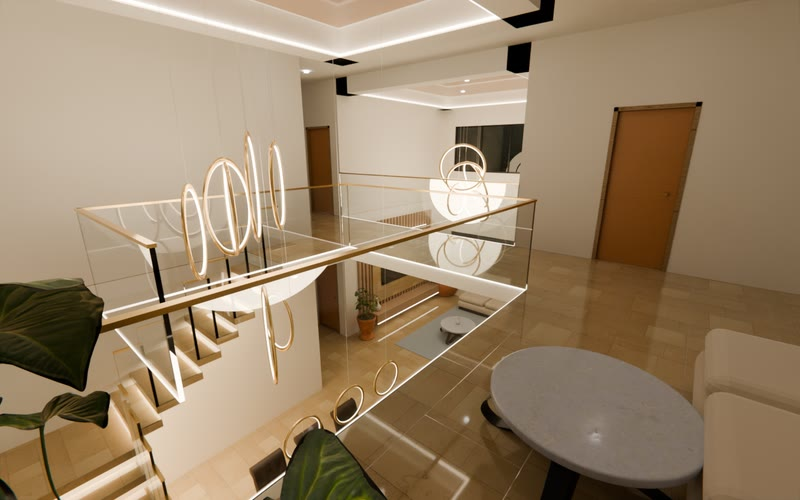
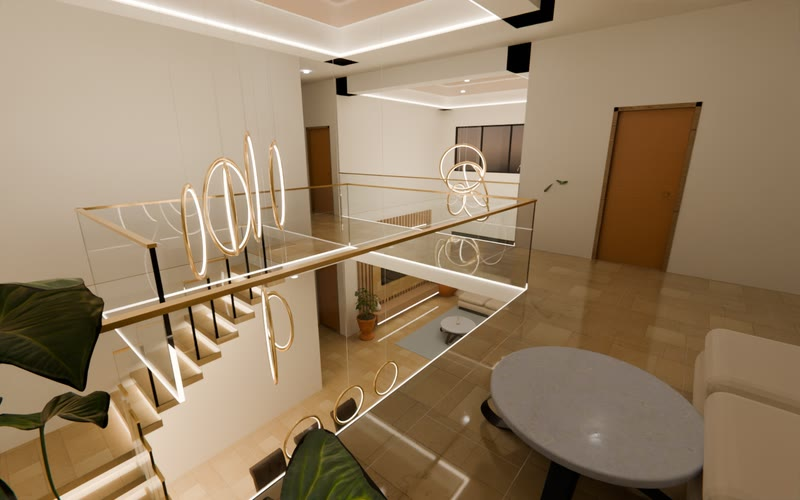
Add 26 new realistic views and camera maps
Rear, rear aerial, drawing room the other way and two back bedrooms for
all three designs; for each design the lounge to the front, the view from
the back rooms, back at the main door, the kitchen from the other side,
the first floor the other way, bedroom 3 and the terrace, plus a camera
map. The first-floor views are re-rendered without the white light
reflections in the glass.

diff --git a/index.html b/index.html
@@ -22,6 +22,7 @@
   h3{font-size:17px;margin:26px 0 10px}
   .shots{display:grid;grid-template-columns:1fr 1fr;gap:14px}
   .shared{display:grid;grid-template-columns:1fr 1fr;gap:14px}.shared .col{display:grid;gap:14px;align-content:start}
+  .shots .wide{grid-column:1/-1}.shared+.shots{margin-top:14px}
   @media (max-width:640px){.shots,.shared{grid-template-columns:1fr}}
   figure.shot{margin:0;background:var(--card);border:1px solid var(--line);border-radius:10px;overflow:hidden}
   figure.shot a{display:block}figure.shot img{width:100%;height:auto;display:block;border-bottom:1px solid var(--line)}
@@ -44,7 +45,7 @@
   </div>
 
   <h2 id="renders">Realistic renders</h2>
-  <p class="lead" style="margin-bottom:6px">Photo-realistic views of each design at dusk, rendered from the measured plans. All three designs have an open kitchen with an island and a set-back entrance. Finishes follow the owner's material list; furniture and decor are indicative. Click any image for the full size.</p>
+  <p class="lead" style="margin-bottom:6px">Photo-realistic views of each design at dusk, rendered from the measured plans. All three designs have an open kitchen with an island and a set-back entrance. Finishes follow the owner's material list; furniture and decor are indicative. Each design ends with a camera map showing where every picture was taken. Click any image for the full size.</p>
 
   <h3>Same for all three designs</h3>
   <div class="shared">
@@ -54,6 +55,13 @@
       <figure class="shot"><a href="renders/aerial-dusk.jpg"><img src="renders/thumbs/aerial-dusk.jpg" width="800" height="500" loading="lazy" alt="Aerial view of the house at dusk"></a><figcaption><b>Aerial at dusk.</b> Neighbouring houses are shown as plain blocks.</figcaption></figure>
     </div>
   </div>
+  <div class="shots">
+    <figure class="shot wide"><a href="renders/rear-dusk.jpg"><img src="renders/thumbs/rear-dusk.jpg" width="800" height="500" loading="lazy" alt="Back of the house at dusk"></a><figcaption><b>Rear at dusk.</b> The back and right side of the house, seen from the back lane.</figcaption></figure>
+    <figure class="shot"><a href="renders/rear-aerial-dusk.jpg"><img src="renders/thumbs/rear-aerial-dusk.jpg" width="800" height="500" loading="lazy" alt="Aerial view from behind the house"></a><figcaption><b>Rear aerial.</b> From above the back-left corner.</figcaption></figure>
+    <figure class="shot"><a href="renders/drawing-room-front-windows.jpg"><img src="renders/thumbs/drawing-room-front-windows.jpg" width="800" height="500" loading="lazy" alt="Drawing room looking towards the front windows"></a><figcaption><b>Drawing room, other way.</b> Looking towards the front windows and curtains.</figcaption></figure>
+    <figure class="shot"><a href="renders/back-bedroom-ground-floor.jpg"><img src="renders/thumbs/back-bedroom-ground-floor.jpg" width="800" height="500" loading="lazy" alt="Back bedroom on the ground floor"></a><figcaption><b>Back bedroom, ground floor.</b> Rear left; furnished to show scale.</figcaption></figure>
+    <figure class="shot"><a href="renders/back-bedroom-first-floor.jpg"><img src="renders/thumbs/back-bedroom-first-floor.jpg" width="800" height="500" loading="lazy" alt="Back bedroom on the first floor"></a><figcaption><b>Back bedroom, first floor.</b> Rear right, seen from beside the bed.</figcaption></figure>
+  </div>
 
   <h3><span class="tag">A</span>Architect's original</h3>
   <div class="shots">
@@ -61,6 +69,14 @@
     <figure class="shot"><a href="renders/a2-open-kitchen.jpg"><img src="renders/thumbs/a2-open-kitchen.jpg" width="800" height="500" loading="lazy" alt="Architect's original: open kitchen"></a><figcaption><b>Open kitchen.</b> Marble island, looking towards the lounge.</figcaption></figure>
     <figure class="shot"><a href="renders/a3-double-height.jpg"><img src="renders/thumbs/a3-double-height.jpg" width="800" height="500" loading="lazy" alt="Architect's original: double-height space"></a><figcaption><b>Double height.</b> The strip on the right side, with the stair.</figcaption></figure>
     <figure class="shot"><a href="renders/a4-first-floor.jpg"><img src="renders/thumbs/a4-first-floor.jpg" width="800" height="500" loading="lazy" alt="Architect's original: first floor"></a><figcaption><b>First floor.</b> Looking down into the double height.</figcaption></figure>
+    <figure class="shot"><a href="renders/a5-lounge-to-front.jpg"><img src="renders/thumbs/a5-lounge-to-front.jpg" width="800" height="500" loading="lazy" alt="Architect's original: lounge looking to the front"></a><figcaption><b>Lounge, looking to the front.</b> From the TV wall: sofa, stair, dining and kitchen.</figcaption></figure>
+    <figure class="shot"><a href="renders/a6-from-back-rooms.jpg"><img src="renders/thumbs/a6-from-back-rooms.jpg" width="800" height="500" loading="lazy" alt="Architect's original: from the back rooms along the lobby"></a><figcaption><b>From the back rooms.</b> Along the 6' lobby towards the dining and the entrance.</figcaption></figure>
+    <figure class="shot"><a href="renders/a7-main-door.jpg"><img src="renders/thumbs/a7-main-door.jpg" width="800" height="500" loading="lazy" alt="Architect's original: looking back at the main door"></a><figcaption><b>Looking back at the main door.</b> The double-height foyer and the set-back door.</figcaption></figure>
+    <figure class="shot"><a href="renders/a8-kitchen-other-side.jpg"><img src="renders/thumbs/a8-kitchen-other-side.jpg" width="800" height="500" loading="lazy" alt="Architect's original: open kitchen from the other side"></a><figcaption><b>Open kitchen, other side.</b> Island and stools seen from the dining area.</figcaption></figure>
+    <figure class="shot"><a href="renders/a9-first-floor-reverse.jpg"><img src="renders/thumbs/a9-first-floor-reverse.jpg" width="800" height="500" loading="lazy" alt="Architect's original: first floor, opposite direction"></a><figcaption><b>First floor, other way.</b> From the lobby along the double height to the front seating.</figcaption></figure>
+    <figure class="shot"><a href="renders/a10-bedroom-3.jpg"><img src="renders/thumbs/a10-bedroom-3.jpg" width="800" height="500" loading="lazy" alt="Architect's original: bedroom 3"></a><figcaption><b>Bedroom 3.</b> Furnished to show scale.</figcaption></figure>
+    <figure class="shot"><a href="renders/a11-terrace.jpg"><img src="renders/thumbs/a11-terrace.jpg" width="800" height="500" loading="lazy" alt="Architect's original: terrace"></a><figcaption><b>Terrace.</b> Open terrace, looking back at the glass sliders.</figcaption></figure>
+    <figure class="shot"><a href="renders/camera-map-a.png"><img src="renders/thumbs/camera-map-a.jpg" width="800" height="500" loading="lazy" alt="Architect's original: camera map"></a><figcaption><b>Camera map.</b> Where each picture was taken, on both floor plans.</figcaption></figure>
   </div>
 
   <h3><span class="tag">B</span>Plan 2: bridge in the middle</h3>
@@ -69,6 +85,14 @@
     <figure class="shot"><a href="renders/b2-open-kitchen.jpg"><img src="renders/thumbs/b2-open-kitchen.jpg" width="800" height="500" loading="lazy" alt="Plan 2: open kitchen"></a><figcaption><b>Open kitchen.</b> Marble island, looking towards the lounge.</figcaption></figure>
     <figure class="shot"><a href="renders/b3-double-height.jpg"><img src="renders/thumbs/b3-double-height.jpg" width="800" height="500" loading="lazy" alt="Plan 2: double-height space"></a><figcaption><b>Double height.</b> Full-width open space with the bridge across the middle.</figcaption></figure>
     <figure class="shot"><a href="renders/b4-first-floor-bridge.jpg"><img src="renders/thumbs/b4-first-floor-bridge.jpg" width="800" height="500" loading="lazy" alt="Plan 2: first-floor bridge"></a><figcaption><b>First floor.</b> The bridge and the floating stair.</figcaption></figure>
+    <figure class="shot"><a href="renders/b5-lounge-to-front.jpg"><img src="renders/thumbs/b5-lounge-to-front.jpg" width="800" height="500" loading="lazy" alt="Plan 2: lounge looking to the front"></a><figcaption><b>Lounge, looking to the front.</b> From the TV wall: sofa, open kitchen, dining and the bridge above.</figcaption></figure>
+    <figure class="shot"><a href="renders/b6-from-back-rooms.jpg"><img src="renders/thumbs/b6-from-back-rooms.jpg" width="800" height="500" loading="lazy" alt="Plan 2: from the back rooms along the lobby"></a><figcaption><b>From the back rooms.</b> Along the 6' lobby to the entrance hall and the front door.</figcaption></figure>
+    <figure class="shot"><a href="renders/b7-main-door.jpg"><img src="renders/thumbs/b7-main-door.jpg" width="800" height="500" loading="lazy" alt="Plan 2: looking back at the main door"></a><figcaption><b>Looking back at the main door.</b> The double-height foyer and the set-back door.</figcaption></figure>
+    <figure class="shot"><a href="renders/b8-kitchen-other-side.jpg"><img src="renders/thumbs/b8-kitchen-other-side.jpg" width="800" height="500" loading="lazy" alt="Plan 2: open kitchen from the other side"></a><figcaption><b>Open kitchen, other side.</b> Island and stools seen from the dining side.</figcaption></figure>
+    <figure class="shot"><a href="renders/b9-first-floor-reverse.jpg"><img src="renders/thumbs/b9-first-floor-reverse.jpg" width="800" height="500" loading="lazy" alt="Plan 2: first floor, opposite direction"></a><figcaption><b>First floor, other way.</b> From the bridge across the dining void to the front seating.</figcaption></figure>
+    <figure class="shot"><a href="renders/b10-bedroom-3.jpg"><img src="renders/thumbs/b10-bedroom-3.jpg" width="800" height="500" loading="lazy" alt="Plan 2: bedroom 3"></a><figcaption><b>Bedroom 3.</b> Furnished to show scale.</figcaption></figure>
+    <figure class="shot"><a href="renders/b11-terrace.jpg"><img src="renders/thumbs/b11-terrace.jpg" width="800" height="500" loading="lazy" alt="Plan 2: terrace"></a><figcaption><b>Terrace.</b> Open terrace, looking out from the gallery door.</figcaption></figure>
+    <figure class="shot"><a href="renders/camera-map-b.png"><img src="renders/thumbs/camera-map-b.jpg" width="800" height="500" loading="lazy" alt="Plan 2: camera map"></a><figcaption><b>Camera map.</b> Where each picture was taken, on both floor plans.</figcaption></figure>
   </div>
 
   <h3><span class="tag">C</span>Plan 5: bridge on the right wall</h3>
@@ -77,6 +101,14 @@
     <figure class="shot"><a href="renders/c2-open-kitchen.jpg"><img src="renders/thumbs/c2-open-kitchen.jpg" width="800" height="500" loading="lazy" alt="Plan 5: open kitchen"></a><figcaption><b>Open kitchen.</b> Marble island, looking towards the lounge (as in Plan 2).</figcaption></figure>
     <figure class="shot"><a href="renders/c3-double-height.jpg"><img src="renders/thumbs/c3-double-height.jpg" width="800" height="500" loading="lazy" alt="Plan 5: double-height space"></a><figcaption><b>Double height.</b> Nothing crosses the open space; the walkway runs along the right wall.</figcaption></figure>
     <figure class="shot"><a href="renders/c4-first-floor-right-bridge.jpg"><img src="renders/thumbs/c4-first-floor-right-bridge.jpg" width="800" height="500" loading="lazy" alt="Plan 5: first floor with the right-wall bridge"></a><figcaption><b>First floor.</b> The walkway along the right wall.</figcaption></figure>
+    <figure class="shot"><a href="renders/c5-lounge-to-front.jpg"><img src="renders/thumbs/c5-lounge-to-front.jpg" width="800" height="500" loading="lazy" alt="Plan 5: lounge looking to the front"></a><figcaption><b>Lounge, looking to the front.</b> From the TV wall: sofa, open kitchen, dining and the walkway above.</figcaption></figure>
+    <figure class="shot"><a href="renders/c6-from-back-rooms.jpg"><img src="renders/thumbs/c6-from-back-rooms.jpg" width="800" height="500" loading="lazy" alt="Plan 5: from the back rooms along the lobby"></a><figcaption><b>From the back rooms.</b> Along the 6' lobby, open to the double height above.</figcaption></figure>
+    <figure class="shot"><a href="renders/c7-main-door.jpg"><img src="renders/thumbs/c7-main-door.jpg" width="800" height="500" loading="lazy" alt="Plan 5: looking back at the main door"></a><figcaption><b>Looking back at the main door.</b> The double-height foyer and the set-back door.</figcaption></figure>
+    <figure class="shot"><a href="renders/c8-kitchen-other-side.jpg"><img src="renders/thumbs/c8-kitchen-other-side.jpg" width="800" height="500" loading="lazy" alt="Plan 5: open kitchen from the other side"></a><figcaption><b>Open kitchen, other side.</b> Island and stools seen from the dining side.</figcaption></figure>
+    <figure class="shot"><a href="renders/c9-first-floor-reverse.jpg"><img src="renders/thumbs/c9-first-floor-reverse.jpg" width="800" height="500" loading="lazy" alt="Plan 5: first floor, opposite direction"></a><figcaption><b>First floor, other way.</b> From the right-wall walkway across the double height to the stair.</figcaption></figure>
+    <figure class="shot"><a href="renders/c10-bedroom-3.jpg"><img src="renders/thumbs/c10-bedroom-3.jpg" width="800" height="500" loading="lazy" alt="Plan 5: bedroom 3"></a><figcaption><b>Bedroom 3.</b> Front left; furnished to show scale.</figcaption></figure>
+    <figure class="shot"><a href="renders/c11-terrace.jpg"><img src="renders/thumbs/c11-terrace.jpg" width="800" height="500" loading="lazy" alt="Plan 5: terrace"></a><figcaption><b>Terrace.</b> Open terrace, looking back at the wide glass slider.</figcaption></figure>
+    <figure class="shot"><a href="renders/camera-map-c.png"><img src="renders/thumbs/camera-map-c.jpg" width="800" height="500" loading="lazy" alt="Plan 5: camera map"></a><figcaption><b>Camera map.</b> Where each picture was taken, on both floor plans.</figcaption></figure>
   </div>
 
   <h2>Walkthrough videos</h2>

diff --git a/README.md b/README.md
@@ -13,7 +13,7 @@ A 5-bedroom, two-storey joint-family house. The architect's original layout is c
 ## Contents
 - `3d/viewer/`: interactive 3D viewer (three.js): three designs, 14 preset views, roof/floor toggles
 - `3d/comparison.html`: 14 views with all three designs side by side; `3d/images/` holds the 42 renders
-- `renders/`: 15 photo-realistic renders at dusk (front, drawing room and aerial shared by all three; entrance, open kitchen, double height and first floor for each design); `renders/thumbs/` holds the smaller previews used on the page
+- `renders/`: 41 photo-realistic renders at dusk. Eight are shared by all three designs (front, rear, both aerials, drawing room both ways, two back bedrooms). Each design has 11 views: entrance, open kitchen, double height, first floor, lounge to the front, from the back rooms, back at the main door, kitchen from the other side, first floor the other way, bedroom 3, terrace. There is also a camera map per design showing where each picture was taken. `renders/thumbs/` holds the smaller previews used on the page
 - `videos/`: 94-second walkthrough video of each design (MP4, 1280×720)
 - `plans/`: measured floor plans for Plan 2 and Plan 5 (PDF/PNG/SVG) and a one-page shortlist sheet
 
